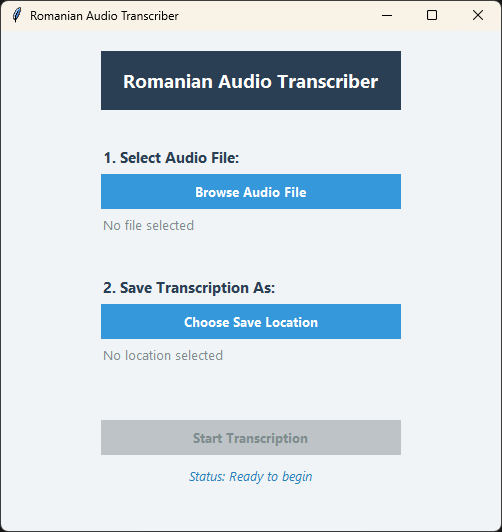
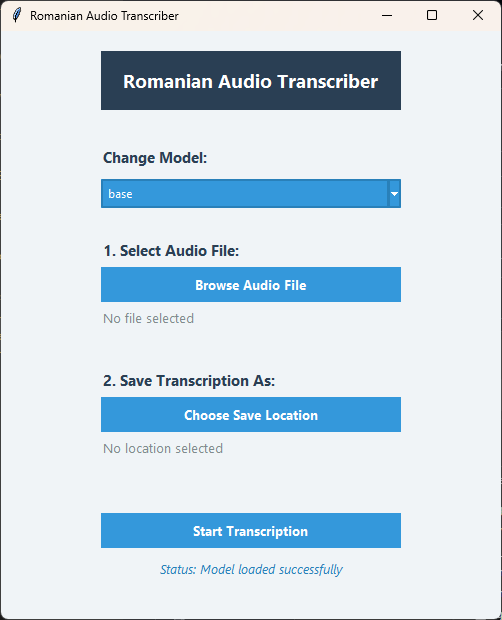
updated screenshot and added maximum cpu multithreading

diff --git a/transcriber.py b/transcriber.py
@@ -1,9 +1,9 @@
 import os
 import re
 import tkinter as tk
+from multiprocessing import cpu_count
 from tkinter import filedialog, messagebox, Tk, ttk
 from threading import Thread
-
 from faster_whisper import WhisperModel
 
 MODEL_CONFIG = {
@@ -27,11 +27,9 @@ class WhisperTranscriber:
     def __init__(self, base_path: str):
         self.base_path = base_path
         self.file_path = ""
-        self.temp_file = ""
         self.output_file = ""
         self.model = None
-        self. model_download_root = os.path.join(self.base_path, MODEL_CONFIG["path"])
-
+        self.model_download_root = os.path.join(self.base_path, MODEL_CONFIG["path"])
 
     def load_model(self, callback=None):
         """Initialize the Whisper model"""
@@ -48,13 +46,15 @@ class WhisperTranscriber:
             if callback:
                 callback("Downloading model files...")
 
+        num_threads = self.get_thread_count()
+
         self.model = WhisperModel(
             MODEL_CONFIG["name"],
             device="auto",
+            cpu_threads=num_threads,
             compute_type="int8",
             download_root=self.model_download_root,
             local_files_only=local_files,
-
         )
         if callback:
             callback("Model loaded successfully")
@@ -65,15 +65,16 @@ class WhisperTranscriber:
         transcription_lines = []
         segments, info = self.model.transcribe(self.file_path, beam_size=8)
 
-        print("Detected language '%s' with probability %f" %
-              (info.language, info.language_probability))
+        print(
+            "Detected language '%s' with probability %f"
+            % (info.language, info.language_probability)
+        )
         for segment in segments:
             text_line = segment.text.strip()
             transcription_lines.append(text_line)
 
             print("[%.2fs -> %.2fs] %s" % (segment.start, segment.end, segment.text))
         return "\n".join(transcription_lines)
-
 
     def save_results(self, text: str):
         """Save transcription to output file"""
@@ -99,6 +100,12 @@ class WhisperTranscriber:
 
         return text
 
+    def get_thread_count(self) -> int:
+        """
+        Get the number of threads to use
+        """
+        return os.cpu_count() or cpu_count()
+
 
 class TranscriberGUI:
     def __init__(self, root: Tk, transcriber: WhisperTranscriber):
@@ -107,7 +114,6 @@ class TranscriberGUI:
         self.root.title("Romanian Audio Transcriber")
         self.create_widgets()
         self.start_model_loading_thread()
-
 
     def create_widgets(self):
         """Create GUI components with modern blue theme"""
@@ -159,35 +165,41 @@ class TranscriberGUI:
             "Status.TLabel", font=("Segoe UI", 10, "italic"), foreground=accent_color
         )
 
-        style.configure("Custom.TCombobox",
-                        fieldbackground=secondary_color,
-                        background=secondary_color,
-                        foreground=text_color,
-                        selectbackground=accent_color,
-                        selectforeground=text_color,
-                        borderwidth=1,
-                        bordercolor=accent_color,
-                        arrowsize=12,
-                        arrowcolor=text_color,
-                        padding=5,
-                        font=("Segoe UI", 11))
+        style.configure(
+            "Custom.TCombobox",
+            fieldbackground=secondary_color,
+            background=secondary_color,
+            foreground=text_color,
+            selectbackground=accent_color,
+            selectforeground=text_color,
+            borderwidth=1,
+            bordercolor=accent_color,
+            arrowsize=12,
+            arrowcolor=text_color,
+            padding=5,
+            font=("Segoe UI", 11),
+        )
 
-        style.map("Custom.TCombobox",
-                fieldbackground=[("readonly", secondary_color)],
-                background=[("readonly", secondary_color)],
-                bordercolor=[("focus", accent_color), ("!focus", accent_color)],
-                lightcolor=[("focus", accent_color), ("!focus", accent_color)],
-                darkcolor=[("focus", accent_color), ("!focus", accent_color)])
+        style.map(
+            "Custom.TCombobox",
+            fieldbackground=[("readonly", secondary_color)],
+            background=[("readonly", secondary_color)],
+            bordercolor=[("focus", accent_color), ("!focus", accent_color)],
+            lightcolor=[("focus", accent_color), ("!focus", accent_color)],
+            darkcolor=[("focus", accent_color), ("!focus", accent_color)],
+        )
 
         # Configure the combobox popdown style
-        style.configure("Custom.TCombobox.Listbox",
-                        background=background_color,
-                        foreground=primary_color,
-                        selectbackground=accent_color,
-                        selectforeground=text_color,
-                        borderwidth=1,
-                        relief="flat",
-                        font=("Segoe UI", 11))
+        style.configure(
+            "Custom.TCombobox.Listbox",
+            background=background_color,
+            foreground=primary_color,
+            selectbackground=accent_color,
+            selectforeground=text_color,
+            borderwidth=1,
+            relief="flat",
+            font=("Segoe UI", 11),
+        )
 
         # Main container
         background = ttk.Frame(self.root)
@@ -221,11 +233,10 @@ class TranscriberGUI:
             textvariable=self.model_var,
             values=MODELS,
             state="readonly",
-            style="Custom.TCombobox"
+            style="Custom.TCombobox",
         )
         self.model_combobox.grid(row=1, column=0, sticky="ew", pady=5)
         self.model_combobox.bind("<<ComboboxSelected>>", self.on_model_selected)
-
 
         # File selection section
         file_frame = ttk.Frame(content_frame)
@@ -304,21 +315,28 @@ class TranscriberGUI:
             filetypes=[("Audio Files", "*.wav *.mp3 *.ogg *.m4a")]
         )
         if self.transcriber.file_path:
-            self.lbl_selected_file.config(text=os.path.basename(self.transcriber.file_path))
-            self.transcriber.output_file = os.path.splitext(self.transcriber.file_path)[0] + ".txt"
-            self.transcriber.temp_file = os.path.splitext(self.transcriber.file_path)[0] + ".wav"
+            self.lbl_selected_file.config(
+                text=os.path.basename(self.transcriber.file_path)
+            )
+            self.transcriber.output_file = (
+                os.path.splitext(self.transcriber.file_path)[0] + ".txt"
+            )
             self.lbl_output_path.config(text=self.transcriber.output_file)
             self.check_ready_state()
 
     def choose_output(self):
         """Handle output file selection"""
-        initial_file = os.path.basename(self.transcriber.file_path) if self.transcriber.file_path else ""
+        initial_file = (
+            os.path.basename(self.transcriber.file_path)
+            if self.transcriber.file_path
+            else ""
+        )
         initial_file = os.path.splitext(initial_file)[0] + ".txt"
 
         self.transcriber.output_file = filedialog.asksaveasfilename(
             defaultextension=".txt",
             filetypes=[("Text Files", "*.txt")],
-            initialfile=initial_file
+            initialfile=initial_file,
         )
 
         if self.transcriber.output_file:
@@ -362,7 +380,6 @@ class TranscriberGUI:
             self.update_status("Error occurred")
         finally:
             self.root.after(0, lambda: self.btn_transcribe.config(state=tk.NORMAL))
-
 
     def update_status(self, message: str):
         """Update the status label with the given message"""
